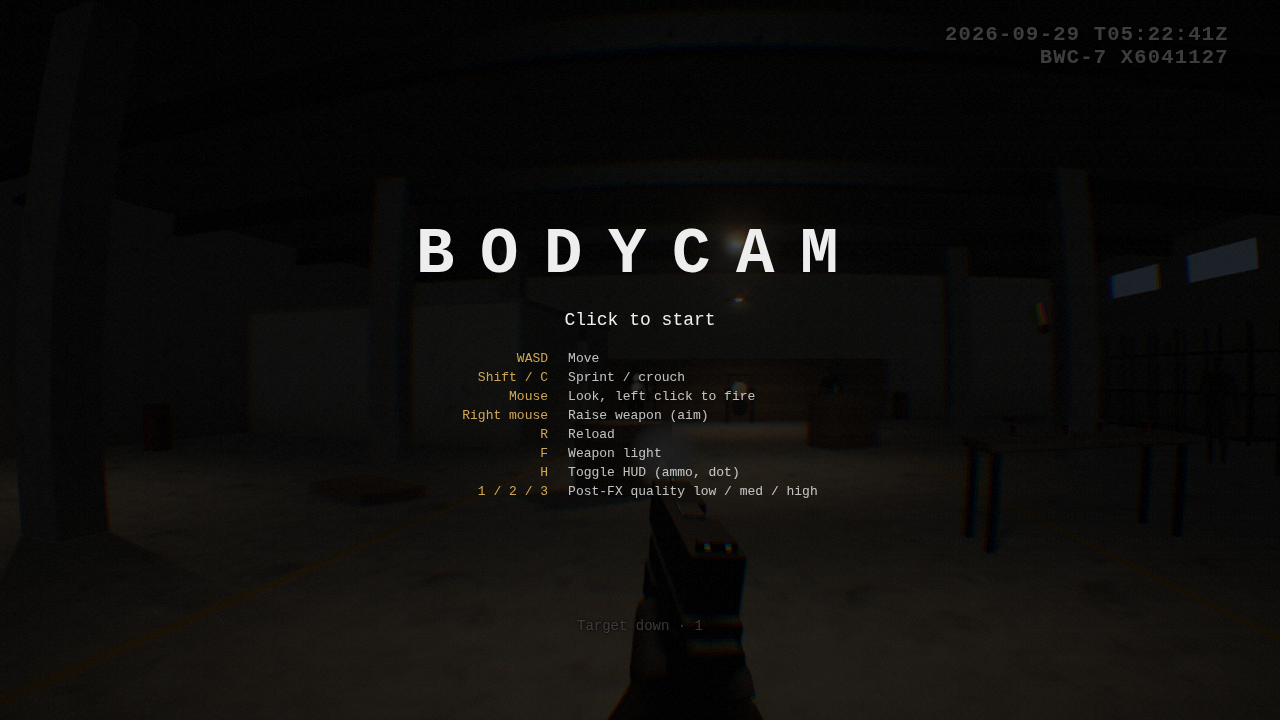
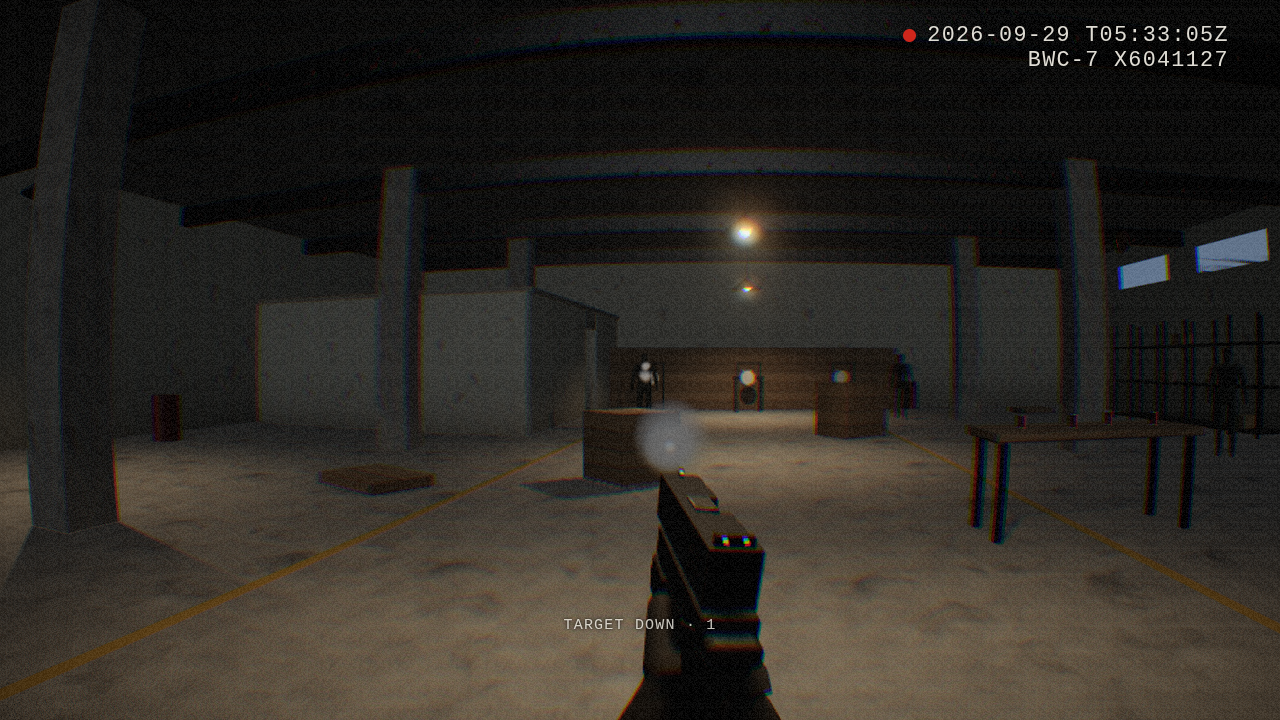
Browser packaging, OSD typography, accessibility touches
- tools/artifact.mjs packages dist/ for hosts that refuse .glb (embedded glTF JSON)
- asset manifest gains modelSuffix
- tokenised HUD/start-screen styles, OSD and display web fonts with fallbacks
- keyboard start, reduced-motion support, clearer startup error
- smoke test runs offline and checks a mannequin drops

Claude-Session: https://claude.ai/code/session_01RAR82cVRguMWSwj3mM6Xg6

diff --git a/src/style.css b/src/style.css
@@ -1,11 +1,26 @@
+/* Full-bleed camera feed with burned-in OSD text on top. One deliberate dark look. */
+:root {
+  --feed: #050506; /* behind the canvas */
+  --osd: #f2efe6; /* burned-in overlay text */
+  --osd-shadow: rgba(0, 0, 0, 0.85);
+  --rec: #e0281c; /* recording indicator */
+  --key: #e3ad4c; /* control key labels */
+  --scrim: rgba(4, 5, 6, 0.76);
+  --dot: rgba(242, 239, 230, 0.6);
+  --focus: #e3ad4c;
+  --font-osd: 'Share Tech Mono', 'Courier New', ui-monospace, monospace;
+  --font-display: 'Saira Condensed', 'Arial Narrow', 'Helvetica Neue', sans-serif;
+  color-scheme: dark;
+}
+
 html,
 body {
   margin: 0;
   height: 100%;
   overflow: hidden;
-  background: #000;
-  color: #eee;
-  font-family: 'Courier New', ui-monospace, monospace;
+  background: var(--feed);
+  color: var(--osd);
+  font-family: var(--font-osd);
 }
 
 #view {
@@ -20,18 +35,18 @@ body {
   position: fixed;
   inset: 0;
   pointer-events: none;
-  text-shadow: 0 0 2px #000, 0 0 4px #000;
+  text-shadow: 0 0 2px var(--osd-shadow), 0 0 4px var(--osd-shadow);
 }
 
 .stamp {
   position: absolute;
-  top: 3.2vh;
+  top: calc(3.2vh + env(safe-area-inset-top, 0px));
   right: 4vw;
-  font-size: clamp(11px, 1.6vw, 22px);
-  font-weight: bold;
+  font-size: clamp(12px, 1.7vw, 24px);
   letter-spacing: 0.06em;
   text-align: right;
   opacity: 0.92;
+  font-variant-numeric: tabular-nums;
 }
 
 .stamp .row {
@@ -45,7 +60,7 @@ body {
   width: 0.6em;
   height: 0.6em;
   border-radius: 50%;
-  background: #e21;
+  background: var(--rec);
   animation: blink 1s steps(2, start) infinite;
 }
 
@@ -58,9 +73,10 @@ body {
 .ammo {
   position: absolute;
   left: 4vw;
-  bottom: 4vh;
-  font-size: clamp(11px, 1.3vw, 18px);
+  bottom: calc(4vh + env(safe-area-inset-bottom, 0px));
+  font-size: clamp(12px, 1.4vw, 19px);
   opacity: 0.55;
+  font-variant-numeric: tabular-nums;
 }
 
 .hint {
@@ -68,7 +84,9 @@ body {
   left: 50%;
   bottom: 12vh;
   transform: translateX(-50%);
-  font-size: 14px;
+  font-size: 15px;
+  letter-spacing: 0.08em;
+  text-transform: uppercase;
   opacity: 0;
   transition: opacity 0.3s;
 }
@@ -85,7 +103,7 @@ body {
   height: 3px;
   margin: -1.5px 0 0 -1.5px;
   border-radius: 50%;
-  background: rgba(255, 255, 255, 0.6);
+  background: var(--dot);
 }
 
 .hud.minimal .ammo,
@@ -99,8 +117,14 @@ body {
   display: flex;
   align-items: center;
   justify-content: center;
-  background: rgba(0, 0, 0, 0.72);
+  padding-inline: 16px;
+  background: var(--scrim);
   cursor: pointer;
+}
+
+.start:focus-visible {
+  outline: 2px solid var(--focus);
+  outline-offset: -6px;
 }
 
 .start[hidden] {
@@ -109,25 +133,47 @@ body {
 
 .panel {
   text-align: center;
-  padding: 16px;
+  padding-block: 16px;
+  max-width: 34rem;
 }
 
 .panel h1 {
-  letter-spacing: 0.4em;
-  font-size: clamp(28px, 6vw, 64px);
-  margin: 0 0 0.3em;
+  font-family: var(--font-display);
+  font-weight: 800;
+  letter-spacing: 0.32em;
+  /* optical centring: trailing letter-spacing */
+  margin: 0 -0.32em 0 0;
+  font-size: clamp(40px, 9vw, 96px);
+  line-height: 1;
+  text-wrap: balance;
+}
+
+.panel .unit {
+  margin: 0.6em 0 1.6em;
+  font-size: 13px;
+  letter-spacing: 0.14em;
+  text-transform: uppercase;
+  opacity: 0.7;
 }
 
 .panel .cta {
   font-size: 18px;
+  letter-spacing: 0.1em;
+  text-transform: uppercase;
   animation: blink 1.2s steps(2, start) infinite;
+}
+
+.panel .error {
+  font-size: 14px;
+  line-height: 1.5;
+  color: var(--key);
 }
 
 .panel table {
   margin: 1.5em auto 0;
   border-collapse: collapse;
   font-size: 13px;
-  opacity: 0.8;
+  opacity: 0.85;
 }
 
 .panel td {
@@ -137,5 +183,27 @@ body {
 
 .panel td:first-child {
   text-align: right;
-  color: #fc6;
+  color: var(--key);
+}
+
+.touch-note {
+  display: none;
+  font-size: 14px;
+  color: var(--key);
+}
+
+@media (hover: none) and (pointer: coarse) {
+  .touch-note {
+    display: block;
+  }
+}
+
+@media (prefers-reduced-motion: reduce) {
+  .rec,
+  .panel .cta {
+    animation: none;
+  }
+  .hint {
+    transition: none;
+  }
 }

diff --git a/src/main.ts b/src/main.ts
@@ -1,7 +1,7 @@
 import * as THREE from 'three';
 import { GLTFLoader } from 'three/examples/jsm/loaders/GLTFLoader.js';
 import { Renderer, type Quality } from './engine/renderer';
-import { assetManifest, assetUrl } from './engine/assets';
+import { assetManifest, modelUrl } from './engine/assets';
 import { Physics } from './engine/physics';
 import { Input } from './engine/input';
 import { Audio } from './engine/audio';
@@ -23,7 +23,7 @@ async function loadModels(): Promise<ModelLibrary> {
     (['mannequin', 'steel_target', 'can', 'box_small'] as const).map(async (name) => {
       if (!models.includes(name)) return;
       try {
-        const gltf = await loader.loadAsync(assetUrl(`models/${name}.glb`));
+        const gltf = await loader.loadAsync(await modelUrl(name));
         gltf.scene.traverse((o) => {
           if ((o as THREE.Mesh).isMesh) o.castShadow = o.receiveShadow = true;
         });
@@ -89,10 +89,17 @@ async function main() {
   loadingEl.hidden = true;
   ctaEl.hidden = false;
   if (DEMO) startEl.hidden = true;
-  startEl.addEventListener('click', () => {
+  const start = () => {
     audio.init();
     input.requestLock();
     startEl.hidden = true;
+  };
+  startEl.addEventListener('click', start);
+  startEl.addEventListener('keydown', (e) => {
+    if (e.code === 'Enter' || e.code === 'Space') {
+      e.preventDefault();
+      start();
+    }
   });
   document.addEventListener('pointerlockchange', () => {
     // Esc releases the lock: show the menu again.
@@ -176,5 +183,9 @@ async function main() {
 main().catch((e) => {
   console.error(e);
   const el = document.getElementById('loading');
-  if (el) el.textContent = `Failed to start: ${e}`;
+  if (!el) return;
+  el.className = 'error';
+  el.textContent =
+    `The range could not start in this browser (${e instanceof Error ? e.message : e}). ` +
+    'It needs WebGL 2 and WebAssembly: try a current desktop Chrome, Edge or Firefox, or run it locally with npm run dev.';
 });

diff --git a/index.html b/index.html
@@ -2,9 +2,12 @@
 <html lang="en">
   <head>
     <meta charset="UTF-8" />
-    <meta name="viewport" content="width=device-width, initial-scale=1.0" />
+    <meta name="viewport" content="width=device-width, initial-scale=1.0, viewport-fit=cover" />
     <title>Bodycam Shooter</title>
     <link rel="icon" href="data:," />
+    <link rel="preconnect" href="https://fonts.googleapis.com" />
+    <link rel="preconnect" href="https://fonts.gstatic.com" crossorigin />
+    <link rel="stylesheet" href="https://fonts.googleapis.com/css2?family=Saira+Condensed:wght@800&family=Share+Tech+Mono&display=swap" />
     <link rel="stylesheet" href="/src/style.css" />
   </head>
   <body>
@@ -20,11 +23,13 @@
       <div id="dot" class="dot"></div>
     </div>
 
-    <div id="start" class="start">
+    <div id="start" class="start" role="button" tabindex="0" aria-label="Start">
       <div class="panel">
         <h1>BODYCAM</h1>
-        <p id="loading">Loading…</p>
+        <p class="unit">Unit BWC-7 · Range 4 · Low light</p>
+        <p id="loading">Loading range…</p>
         <p class="cta" id="cta" hidden>Click to start</p>
+        <p class="touch-note">This prototype needs a keyboard and mouse.</p>
         <table>
           <tr><td>WASD</td><td>Move</td></tr>
           <tr><td>Shift / C</td><td>Sprint / crouch</td></tr>
@@ -32,9 +37,10 @@
           <tr><td>Right mouse</td><td>Raise weapon (aim)</td></tr>
           <tr><td>R</td><td>Reload</td></tr>
           <tr><td>F</td><td>Weapon light</td></tr>
-          <tr><td>H</td><td>Toggle HUD (ammo, dot)</td></tr>
+          <tr><td>H</td><td>Show ammo and dot</td></tr>
           <tr><td>T</td><td>Reset props</td></tr>
-          <tr><td>1 / 2 / 3</td><td>Post-FX quality low / med / high</td></tr>
+          <tr><td>1 / 2 / 3</td><td>Post-FX low / med / high</td></tr>
+          <tr><td>Esc</td><td>Pause</td></tr>
         </table>
       </div>
     </div>

diff --git a/src/game/player.ts b/src/game/player.ts
@@ -47,6 +47,8 @@ export class Player {
   private bobPhase = 0;
   private stepSign = 1;
   sensitivity = 0.0022;
+  /** Head bob / sway multiplier; toned down for people who ask for reduced motion. */
+  private motionScale = matchMedia('(prefers-reduced-motion: reduce)').matches ? 0.3 : 1;
 
   // Camera feel springs
   private landDip = new Spring(120, 14);
@@ -166,7 +168,7 @@ export class Player {
     const freq = this.sprinting ? 2.35 : 1.85; // steps per second / 2
     const prevPhase = this.bobPhase;
     this.bobPhase += dt * freq * Math.PI * 2 * Math.min(1, hSpeed / 1.5);
-    const amp = this.moveAmount * (this.sprinting ? 1.6 : 1.0);
+    const amp = this.moveAmount * (this.sprinting ? 1.6 : 1.0) * this.motionScale;
     const bobY = -Math.abs(Math.sin(this.bobPhase)) * 0.045 * amp;
     const bobX = Math.cos(this.bobPhase) * 0.03 * amp;
     const bobRoll = Math.cos(this.bobPhase) * 0.012 * amp;
@@ -179,7 +181,7 @@ export class Player {
     }
 
     // Breathing sway when idle.
-    const breathe = Math.sin(time * 1.6) * 0.004;
+    const breathe = Math.sin(time * 1.6) * 0.004 * this.motionScale;
     const swayX = Math.sin(time * 0.7) * 0.0025 + Math.sin(time * 1.9) * 0.001;
 
     // Strafe roll.

diff --git a/src/engine/assets.ts b/src/engine/assets.ts
@@ -6,16 +6,22 @@
 export interface AssetManifest {
   models: string[]; // stems of public/models/<name>.glb
   textures: string[]; // stems of public/textures/<name>_{albedo,normal,roughness}.jpg
+  /** File suffix for models. ".glb" by default; hosts that refuse .glb get embedded glTF as ".gltf.json". */
+  modelSuffix: string;
 }
 
 let manifest: Promise<AssetManifest> | null = null;
 
 export function assetManifest(): Promise<AssetManifest> {
   manifest ??= fetch(`${import.meta.env.BASE_URL}assets.json`)
-    .then((r) => (r.ok ? r.json() : { models: [], textures: [] }))
-    .then((m) => ({ models: m.models ?? [], textures: m.textures ?? [] }))
-    .catch(() => ({ models: [], textures: [] }));
+    .then((r): Promise<Partial<AssetManifest>> => (r.ok ? r.json() : Promise.resolve({})))
+    .catch((): Partial<AssetManifest> => ({}))
+    .then((m) => ({ models: m.models ?? [], textures: m.textures ?? [], modelSuffix: m.modelSuffix ?? '.glb' }));
   return manifest;
 }
 
 export const assetUrl = (path: string) => `${import.meta.env.BASE_URL}${path}`;
+
+export async function modelUrl(name: string) {
+  return assetUrl(`models/${name}${(await assetManifest()).modelSuffix}`);
+}

diff --git a/src/game/weapon.ts b/src/game/weapon.ts
@@ -2,7 +2,7 @@ import * as THREE from 'three';
 import type RAPIER from '@dimforge/rapier3d-compat';
 import { GLTFLoader } from 'three/examples/jsm/loaders/GLTFLoader.js';
 import { GROUP_DEBRIS, type Physics } from '../engine/physics';
-import { assetManifest, assetUrl } from '../engine/assets';
+import { assetManifest, modelUrl } from '../engine/assets';
 import type { Audio } from '../engine/audio';
 import type { Input } from '../engine/input';
 import type { Player } from './player';
@@ -162,7 +162,7 @@ export class Weapon {
     const load = async (name: string) => {
       if (!models.includes(name)) return null;
       try {
-        const gltf = await new GLTFLoader().loadAsync(assetUrl(`models/${name}.glb`));
+        const gltf = await new GLTFLoader().loadAsync(await modelUrl(name));
         gltf.scene.traverse((o) => {
           if ((o as THREE.Mesh).isMesh) {
             o.castShadow = true;

diff --git a/blender/common.py b/blender/common.py
@@ -182,6 +182,8 @@ def join(name, objs):
     bpy.context.scene.collection.objects.link(obj)
     for o in objs:
         bpy.data.objects.remove(o, do_unlink=True)
+    # The sources may have held the name; claim it now that they're gone.
+    obj.name = name
     return obj
 
 

diff --git a/README.md b/README.md
@@ -17,9 +17,13 @@ npm run dev          # open the printed URL, click to start
 npm run build        # static build in dist/ (any static host works)
 ```
 
+`npm run package:artifact` also writes `dist-artifact/`, a variant for hosts that
+only serve common web file types (models become embedded `.gltf.json`, CSS is
+inlined). That is what the hosted claude.ai build uses.
+
 Controls: WASD move, Shift sprint, C crouch, Space hop, mouse look, left click
 fire, right mouse raise/aim, R reload, F weapon light, H toggle ammo + dot,
-T reset props, 1/2/3 post-FX quality.
+T reset props, 1/2/3 post-FX quality, Esc pause.
 
 ## What makes it look like bodycam footage
 
@@ -51,6 +55,7 @@ blender/                  asset pipeline (see docs/PIPELINE.md)
 public/models/*.glb       exported by the pipeline
 public/textures/*.jpg     baked PBR sets (albedo / normal / roughness)
 public/assets.json        manifest the game reads; anything missing falls back to procedural
+tools/artifact.mjs        packages dist/ for restrictive static hosts
 tools/smoke.mjs           headless test: renders, fires at a mannequin, checks it drops
 ```
 

diff --git a/docs/PIPELINE.md b/docs/PIPELINE.md
@@ -44,6 +44,7 @@ asset set still runs.
 - **Scanned materials:** drop CC0 sets (ambientCG, Poly Haven) into `public/textures` using the same file names and make sure the stem is in `assets.json`. Wall textures map one tile per wall height, so vertical grime reads correctly.
 - **Hand-made models:** export glTF 2.0 binary with the node names above into `public/models`, add the stem to `assets.json`.
 - **Skinned characters:** export with an armature and actions; load with `GLTFLoader` and play clips via `THREE.AnimationMixer` (not wired up yet).
+- **Restrictive hosts:** `tools/artifact.mjs` converts every `.glb` to glTF JSON with an embedded buffer and sets `modelSuffix` in `assets.json`, so the game loads `.gltf.json` instead.
 - **Compression:** for larger assets run `npx @gltf-transform/cli optimize in.glb out.glb --texture-compress webp` and enable `DRACOLoader`/`KTX2Loader` in the game.
 
 ## Suggested next pipeline steps
